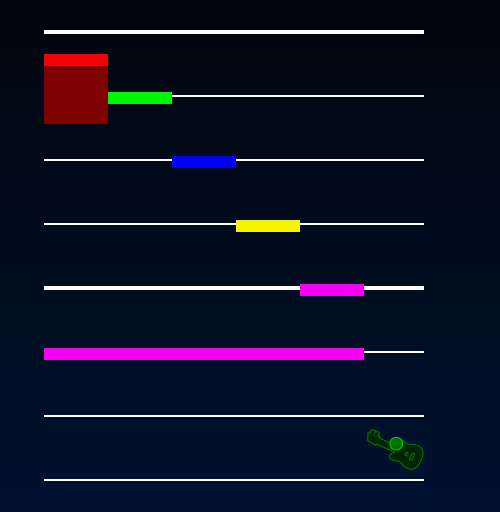
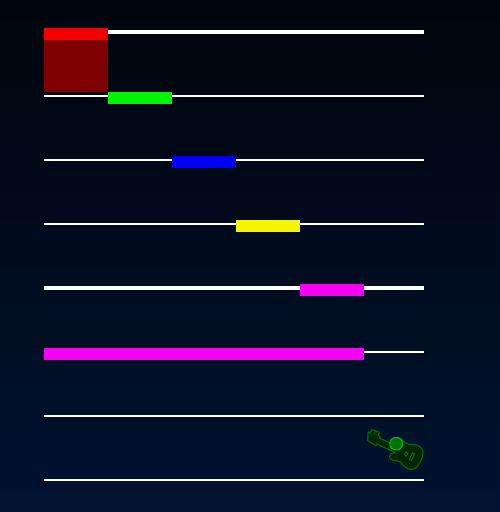
Fix gdgf holds

Changed region(s): [[0.09, 0.0312, 0.24, 0.25]]

diff --git a/measure/index.js b/measure/index.js
@@ -162,18 +162,14 @@ const main = async () => {
 
         if (curMode === 'pnm') return [472, 216][measure]
 
-        if (curMode === 'bm') return [476, 220][measure]
-
-        if (curMode === 'gdgf') return [476, 220][measure]
+        if (['bm', 'gdgf'].includes(curMode)) return [476, 220][measure]
 
         return [448, 192][measure]
       }
 
-      if (curMode === 'gdgf') return [28, 284][measure]
-
       if (curMode === 'pnm') return [24, 280][measure]
 
-      if (curMode === 'bm') return [28, 284][measure]
+      if (['bm', 'gdgf'].includes(curMode)) return [28, 284][measure]
 
       return [0, 256][measure]
     }
@@ -278,15 +274,6 @@ const main = async () => {
 
               background.blit(rollTop, noteX, reverse ? noteY + 32 : noteY);
 
-              // const note = await NoteSkin.collectAsset(
-              //   "tapNote",
-              //   timing,
-              //   endChar,
-              //   noteType,
-              //   curLane
-              // );
-              // background.blit(note, noteX, noteY);
-
               const measureNote = await NoteSkin.collectMeasure('tapNote', timing, endChar, noteType, curLane);
 
               if (willHeadEnd(curLane, line + 1, measure)) {
@@ -327,6 +314,7 @@ const main = async () => {
                 case 'pnm':
                   background.blit(body, bodyX, reverse ? bodyY - 92 : bodyY - 24);
                 break
+                case 'gdgf':
                 case 'bm':
                   background.blit(body, bodyX, reverse ? bodyY - 96 : bodyY - 32);
                 break
@@ -366,7 +354,7 @@ const main = async () => {
                 if (curMode === 'pnm') {
                   background.blit(note, bodyX, bodyY - measureNote.height / 2 - 24);
                 } else {
-                  background.blit(note, bodyX, bodyY - measureNote.height / 2 - (curMode === 'bm' ? 26 : 0));
+                  background.blit(note, bodyX, bodyY - measureNote.height / 2 - (['bm', 'gdgf'].includes(curMode) ? 26 : 0));
                 }
 
                 if (curMode === 'bm' || curMode === 'pnm') {
